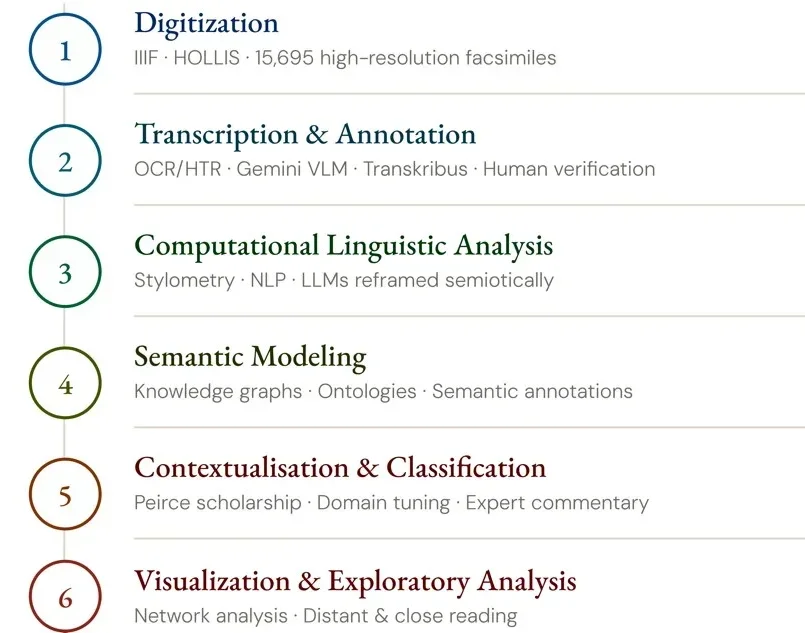
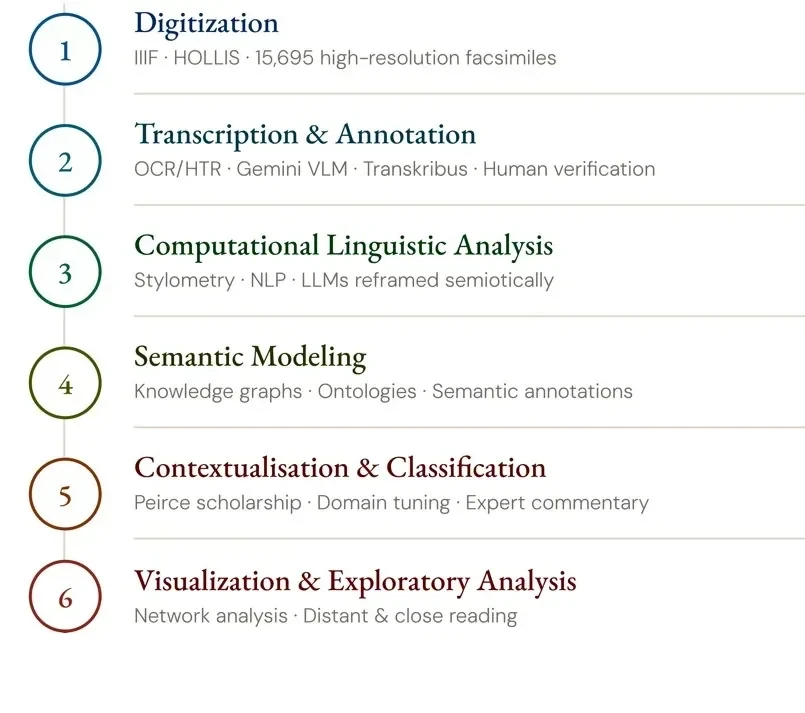
Pad bottom of Peirce Interprets Peirce fig_001 with whitespace

diff --git a/_layouts/publication.html b/_layouts/publication.html
@@ -135,7 +135,7 @@
     .body ul li::marker { font-size: 0.7em; }
     .hero { margin: 0 0 2rem; }
     .hero img { width: 100%; height: auto; display: block; }
-    .body figure { margin: 2rem 0 3rem; }
+    .body figure { margin: 2rem 0; }
     .body figure img { width: 100%; height: auto; display: block; }
     .body figcaption { margin-top: 0.5rem; font-size: var(--text-xs); color: var(--muted); line-height: var(--lh-normal); }
     @media screen {
